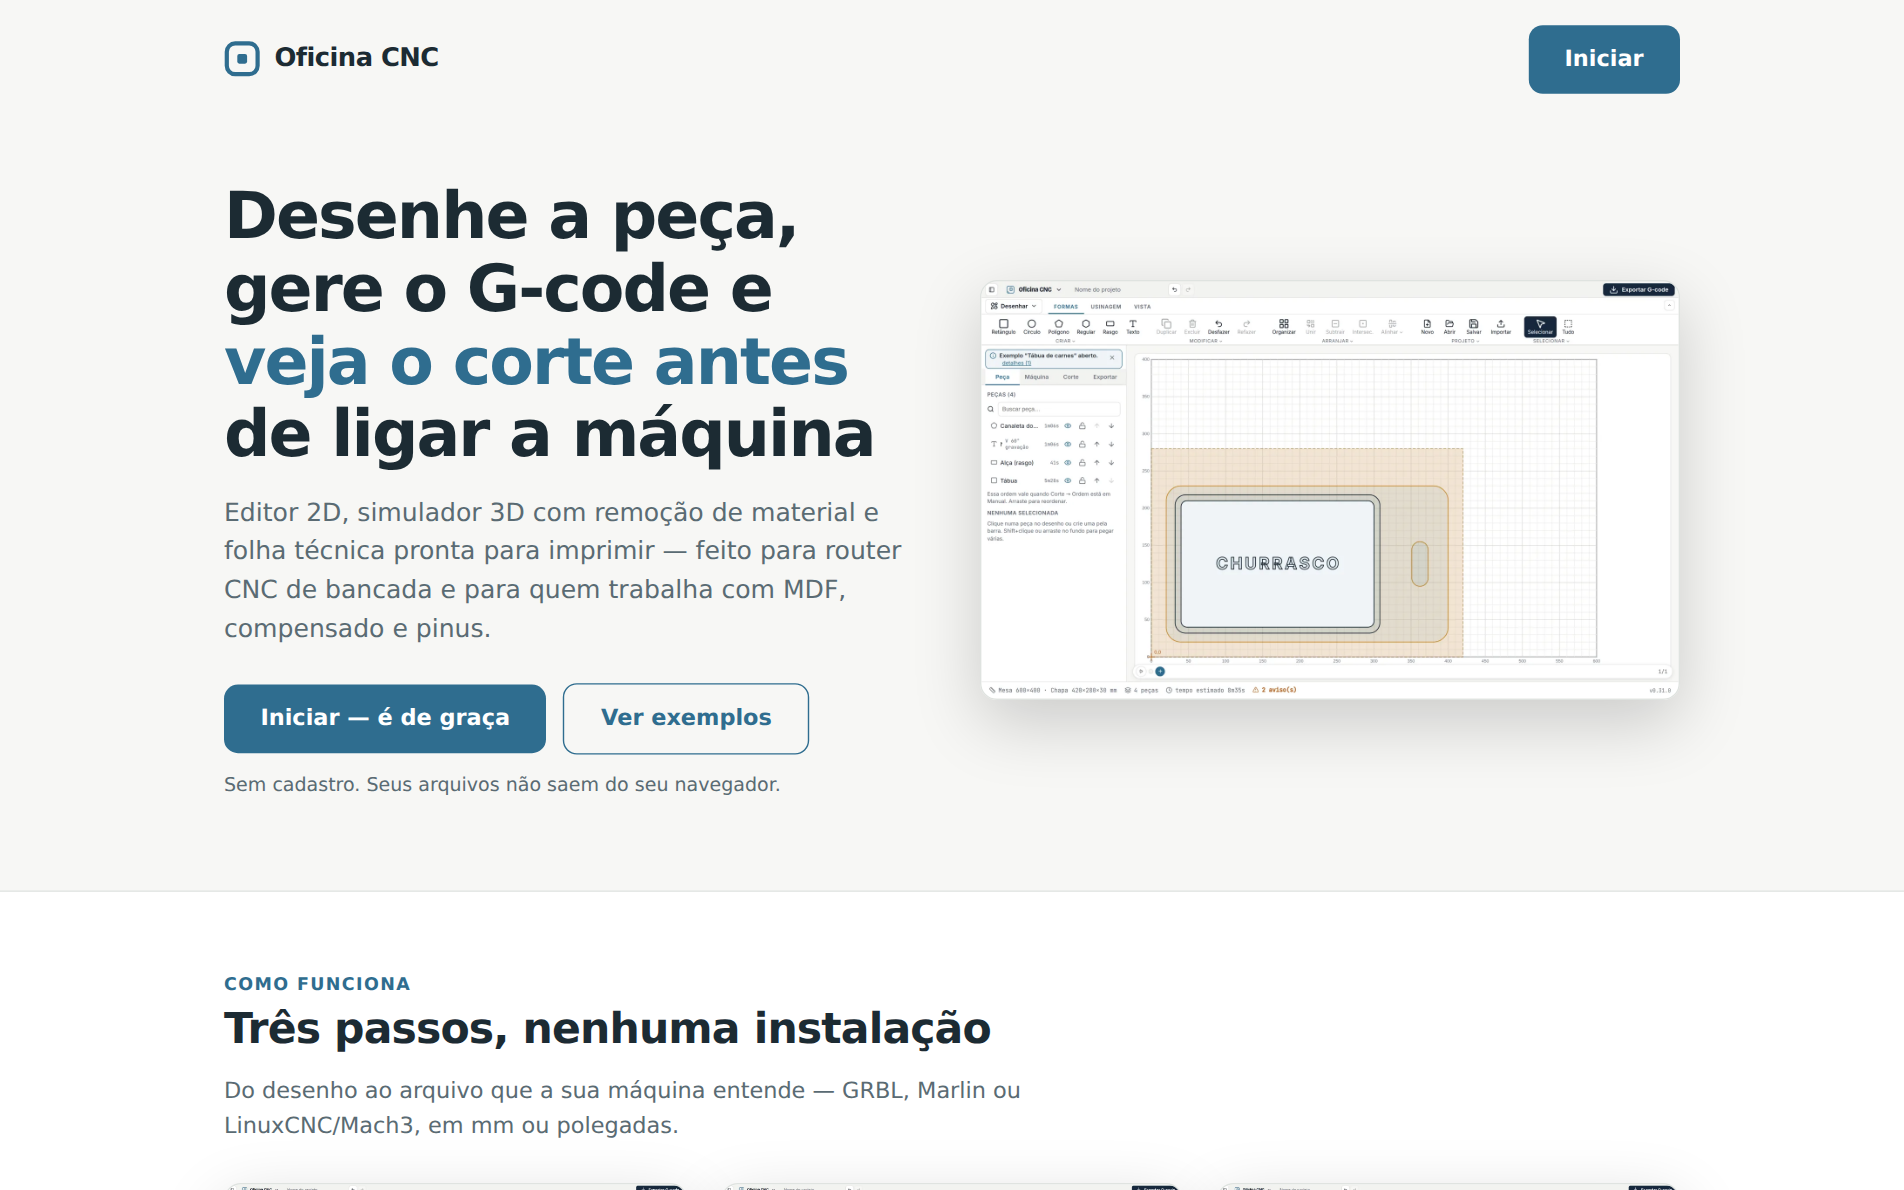
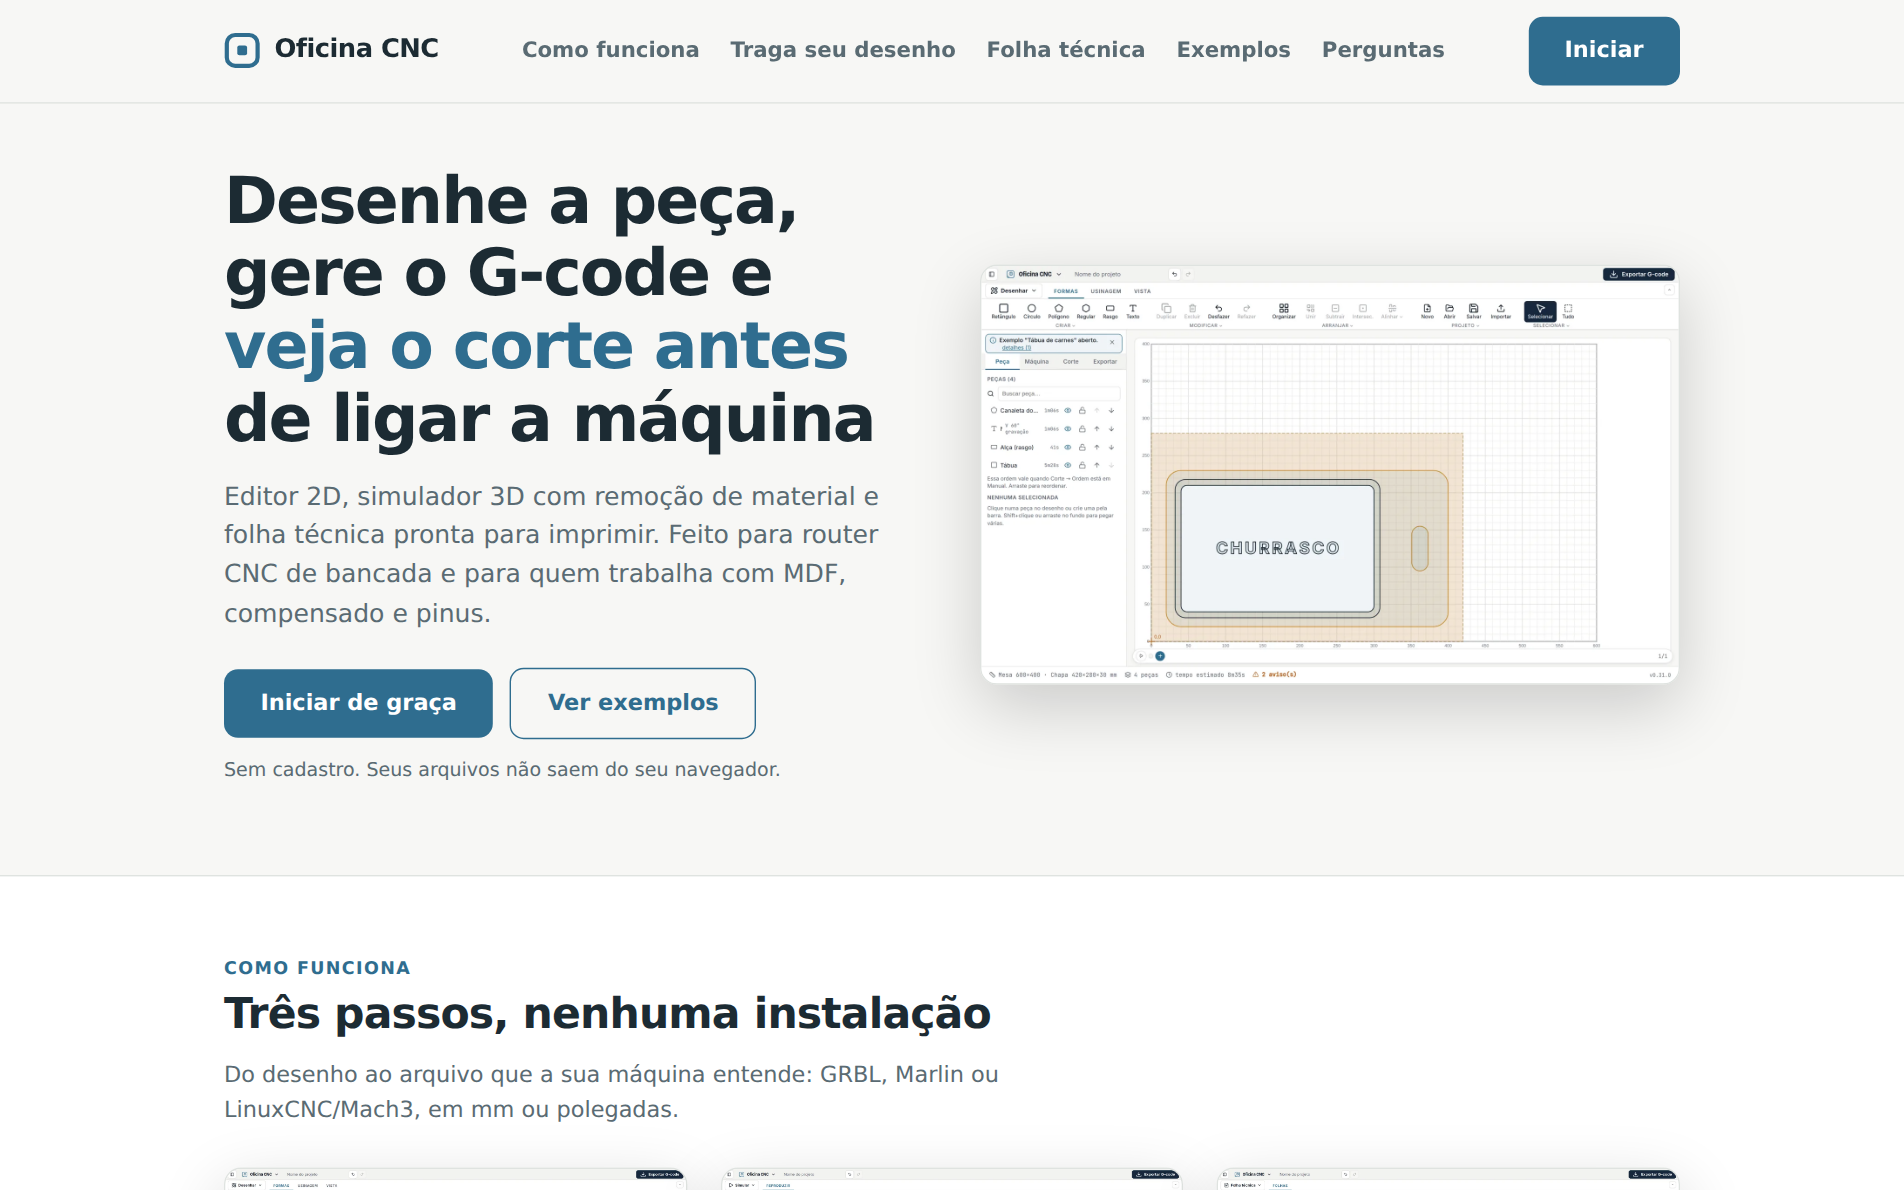
Landing: navbar fixa com navegação, textos sem travessão, JSON-LD (app + FAQ) e metas completas.

diff --git a/index.html b/index.html
@@ -15,16 +15,53 @@
     <meta name="viewport" content="width=device-width, initial-scale=1.0" />
     <meta name="theme-color" content="#16283d" />
     <meta name="robots" content="index, follow" />
-    <meta name="description" content="Desenhe a peça, gere o G-code e veja o corte simulado antes de ligar a máquina. Editor para router CNC de bancada — de graça, no navegador." />
+    <meta name="application-name" content="Oficina CNC" />
+    <meta name="author" content="Kleber Andrade" />
+    <meta name="description" content="Desenhe a peça, gere o G-code e veja o corte simulado antes de ligar a máquina. Editor gratuito para router CNC de bancada, direto no navegador." />
     <meta property="og:type" content="website" />
     <meta property="og:locale" content="pt_BR" />
     <meta property="og:site_name" content="Oficina CNC" />
-    <meta property="og:title" content="Oficina CNC — desenhe, simule, corte" />
+    <meta property="og:title" content="Oficina CNC: desenhe, simule, corte" />
     <meta property="og:description" content="Editor, G-code e simulador 3D para router CNC de bancada. De graça, no navegador." />
     <meta property="og:url" content="https://oficina-cnc.vercel.app/" />
     <meta property="og:image" content="https://oficina-cnc.vercel.app/og-image.png" />
+    <meta property="og:image:width" content="1200" />
+    <meta property="og:image:height" content="630" />
+    <meta property="og:image:alt" content="Oficina CNC: editor 2D, G-code e simulador 3D para router CNC no navegador" />
     <meta name="twitter:card" content="summary_large_image" />
-    <title>Oficina CNC — desenhe, simule e corte na sua router CNC</title>
+    <meta name="twitter:title" content="Oficina CNC: desenhe, simule, corte" />
+    <meta name="twitter:description" content="Editor, G-code e simulador 3D para router CNC de bancada. De graça, no navegador." />
+    <meta name="twitter:image" content="https://oficina-cnc.vercel.app/og-image.png" />
+    <link rel="apple-touch-icon" href="/icons/apple-touch-icon.png" />
+    <title>Oficina CNC: desenhe, simule e corte na sua router CNC</title>
+    <script type="application/ld+json">
+      {
+        "@context": "https://schema.org",
+        "@type": "SoftwareApplication",
+        "name": "Oficina CNC",
+        "url": "https://oficina-cnc.vercel.app/",
+        "description": "Desenhe a peça, gere o G-code e veja o corte simulado antes de ligar a máquina. Editor gratuito para router CNC de bancada, direto no navegador.",
+        "applicationCategory": "DesignApplication",
+        "operatingSystem": "Web",
+        "inLanguage": "pt-BR",
+        "author": { "@type": "Person", "name": "Kleber Andrade" },
+        "offers": { "@type": "Offer", "price": "0", "priceCurrency": "BRL" },
+        "image": "https://oficina-cnc.vercel.app/og-image.png"
+      }
+    </script>
+    <script type="application/ld+json">
+      {
+        "@context": "https://schema.org",
+        "@type": "FAQPage",
+        "mainEntity": [
+          { "@type": "Question", "name": "Quanto custa o Oficina CNC?", "acceptedAnswer": { "@type": "Answer", "text": "Nada. O projeto nasceu para resolver um problema real de oficina e continua gratuito, sem cadastro." } },
+          { "@type": "Question", "name": "Meus desenhos saem do meu computador?", "acceptedAnswer": { "@type": "Answer", "text": "Não. Tudo roda e fica no seu navegador: projeto salvo localmente, exportação direto para o seu disco. Nada sobe para servidor." } },
+          { "@type": "Question", "name": "Funciona sem internet?", "acceptedAnswer": { "@type": "Answer", "text": "Sim: é um PWA. Instale pelo navegador e ele abre e trabalha offline." } },
+          { "@type": "Question", "name": "Que máquinas e controladores são compatíveis?", "acceptedAnswer": { "@type": "Answer", "text": "Qualquer router que aceite G-code: GRBL, Marlin ou LinuxCNC/Mach3, com pós-processador próprio para cada um, em mm ou polegadas (G21/G20)." } },
+          { "@type": "Question", "name": "Funciona no celular e no tablet?", "acceptedAnswer": { "@type": "Answer", "text": "Sim: dá para desenhar, simular e conferir a folha técnica no toque. Para trabalho longo, a tela grande continua sendo a melhor amiga da oficina." } }
+        ]
+      }
+    </script>
     <style>
       :root {
         --bg: #f7f7f5; --surface: #ffffff; --ink: #1c2b33; --muted: #5a6b73;
@@ -35,9 +72,16 @@
       }
       * { margin: 0; padding: 0; box-sizing: border-box; }
       html { scroll-behavior: smooth; }
+      /* âncoras não somem embaixo da navbar fixa */
+      section[id] { scroll-margin-top: 76px; }
       body { font-family: system-ui, -apple-system, "Segoe UI", sans-serif; background: var(--bg); color: var(--ink); line-height: 1.55; }
       .wrap { max-width: 1080px; margin: 0 auto; padding: 0 20px; }
-      header.top { display: flex; align-items: center; justify-content: space-between; padding: 18px 0; }
+      header.top { position: sticky; top: 0; z-index: 50; background: color-mix(in srgb, var(--bg) 86%, transparent); backdrop-filter: blur(10px); border-bottom: 1px solid var(--line); }
+      .top-inner { display: flex; align-items: center; justify-content: space-between; gap: 16px; padding: 12px 20px; max-width: 1080px; margin: 0 auto; }
+      nav.top-nav { display: flex; gap: 22px; }
+      nav.top-nav a { color: var(--muted); text-decoration: none; font-size: 0.95rem; font-weight: 600; }
+      nav.top-nav a:hover { color: var(--accent); }
+      @media (max-width: 860px) { nav.top-nav { display: none; } }
       .brand { display: flex; align-items: center; gap: 10px; font-weight: 800; font-size: 1.15rem; letter-spacing: -0.02em; }
       .brand svg { flex: none; }
       a.btn { display: inline-block; background: var(--accent); color: var(--accent-ink); font-weight: 700; padding: 12px 26px; border-radius: 10px; text-decoration: none; }
@@ -93,21 +137,30 @@
     </style>
   </head>
   <body>
-    <div class="wrap">
-      <header class="top">
+    <header class="top">
+      <div class="top-inner">
         <div class="brand">
           <svg width="26" height="26" viewBox="0 0 26 26" aria-hidden="true"><rect x="2" y="2" width="22" height="22" rx="6" fill="none" stroke="var(--accent)" stroke-width="3"/><rect x="9.5" y="9.5" width="7" height="7" rx="1.5" fill="var(--accent)"/></svg>
           Oficina CNC
         </div>
+        <nav class="top-nav" aria-label="Seções da página" data-testid="landing-nav">
+          <a href="#como-funciona">Como funciona</a>
+          <a href="#traga-seu-desenho">Traga seu desenho</a>
+          <a href="#folha-tecnica">Folha técnica</a>
+          <a href="#exemplos">Exemplos</a>
+          <a href="#perguntas">Perguntas</a>
+        </nav>
         <a class="btn" href="/app/" data-testid="landing-start-top">Iniciar</a>
-      </header>
+      </div>
+    </header>
+    <div class="wrap">
 
       <section class="hero">
         <div>
           <h1>Desenhe a peça, gere o G-code e <em>veja o corte antes</em> de ligar a máquina</h1>
-          <p class="lead">Editor 2D, simulador 3D com remoção de material e folha técnica pronta para imprimir — feito para router CNC de bancada e para quem trabalha com MDF, compensado e pinus.</p>
+          <p class="lead">Editor 2D, simulador 3D com remoção de material e folha técnica pronta para imprimir. Feito para router CNC de bancada e para quem trabalha com MDF, compensado e pinus.</p>
           <div class="cta-row">
-            <a class="btn" href="/app/" data-testid="landing-start">Iniciar — é de graça</a>
+            <a class="btn" href="/app/" data-testid="landing-start">Iniciar de graça</a>
             <a class="btn ghost" href="/app/?galeria=1" data-testid="landing-examples">Ver exemplos</a>
             <span class="cta-note">Sem cadastro. Seus arquivos não saem do seu navegador.</span>
           </div>
@@ -116,11 +169,11 @@
       </section>
     </div>
 
-    <section class="alt">
+    <section class="alt" id="como-funciona">
       <div class="wrap">
         <p class="kicker">Como funciona</p>
         <h2>Três passos, nenhuma instalação</h2>
-        <p class="sub">Do desenho ao arquivo que a sua máquina entende — GRBL, Marlin ou LinuxCNC/Mach3, em mm ou polegadas.</p>
+        <p class="sub">Do desenho ao arquivo que a sua máquina entende: GRBL, Marlin ou LinuxCNC/Mach3, em mm ou polegadas.</p>
         <div class="steps">
           <div class="step">
             <div class="shot"><img src="/landing/hero-editor.webp" loading="lazy" width="1600" height="956" alt="Estação Desenhar" /></div>
@@ -141,14 +194,14 @@
       </div>
     </section>
 
-    <section>
+    <section id="traga-seu-desenho">
       <div class="wrap cols">
         <div>
           <p class="kicker">Traga seu desenho</p>
           <h2>DXF e SVG que entram do jeito certo</h2>
           <p class="sub">Arraste o arquivo para a tela e confira na prévia antes de qualquer coisa cair na chapa.</p>
           <ul>
-            <li>Furos do DXF viram furos de verdade — não contornos soltos</li>
+            <li>Furos do DXF viram furos de verdade, não contornos soltos</li>
             <li>Escolha de camadas e unidade do arquivo na importação</li>
             <li>Foto ou logo em PNG/JPG vira contorno vetorizado ou relevo 2,5D</li>
             <li>Suas fontes .ttf/.otf nos textos, com "explodir em contornos"</li>
@@ -158,16 +211,16 @@
       </div>
     </section>
 
-    <section class="alt">
+    <section class="alt" id="folha-tecnica">
       <div class="wrap cols">
         <div class="shot sheetimg"><img src="/landing/folha-a4.webp" loading="lazy" width="900" height="1273" alt="Folha de oficina em A4 com chapa, origem, fresas e tempos" /></div>
         <div>
           <p class="kicker">Papel na oficina</p>
           <h2>Folha técnica que vai para o lado da máquina</h2>
-          <p class="sub">Nenhuma ferramenta gratuita faz isso: a folha de setup com origem, fresas, parâmetros e avisos — e o desenho cotado de cada peça.</p>
+          <p class="sub">Nenhuma ferramenta gratuita faz isso: a folha de setup com origem, fresas, parâmetros e avisos, mais o desenho cotado de cada peça.</p>
           <ul>
             <li>Desenho técnico com medidas, furos agrupados e carimbo</li>
-            <li>Escala 1:1 quando a peça cabe no A4 — recorte e use como gabarito</li>
+            <li>Escala 1:1 quando a peça cabe no A4: recorte e use como gabarito</li>
             <li>Tempo estimado por peça, para saber o que está custando caro</li>
             <li>SVG baixável para editar fora, plotter ou laser</li>
           </ul>
@@ -175,11 +228,11 @@
       </div>
     </section>
 
-    <section>
+    <section id="exemplos">
       <div class="wrap">
         <p class="kicker">Comece por um exemplo</p>
         <h2>Peças reais, prontas para estudar e cortar</h2>
-        <p class="sub">Cada exemplo ensina um recurso — encaixe com folga, rebaixo multi-passe, texto com fresa V, relevo. Clique e ele abre no editor.</p>
+        <p class="sub">Cada exemplo ensina um recurso: encaixe com folga, rebaixo multi-passe, texto com fresa V, relevo. Clique e ele abre no editor.</p>
         <div class="ex-grid">
           <a class="ex-card" href="/app/?exemplo=tabua-carnes"><img src="/landing/thumb-tabua-carnes.svg" loading="lazy" alt="" /><span>Tábua de carnes</span></a>
           <a class="ex-card" href="/app/?exemplo=caixa-dedos"><img src="/landing/thumb-caixa-dedos.svg" loading="lazy" alt="" /><span>Caixa com encaixe de dedo</span></a>
@@ -191,11 +244,11 @@
       </div>
     </section>
 
-    <section class="alt">
+    <section class="alt" id="perguntas">
       <div class="wrap">
         <p class="kicker">Sem promessa inflada</p>
-        <h2>Para quem é — e o que não é</h2>
-        <p class="sub">Feito para router CNC de bancada (3018 à 1325) cortando MDF, compensado, pinus e alumínio leve. Não substitui CAM industrial de 5 eixos — e nem tenta.</p>
+        <h2>Para quem é (e o que não é)</h2>
+        <p class="sub">Feito para router CNC de bancada, da 3018 até a 1325, cortando MDF, compensado, pinus e alumínio leve. Não substitui CAM industrial de 5 eixos, e nem tenta.</p>
         <div class="faq">
           <details>
             <summary>Quanto custa?</summary>
@@ -203,7 +256,7 @@
           </details>
           <details>
             <summary>Meus desenhos saem do meu computador?</summary>
-            <p>Não. Tudo roda e fica no seu navegador — projeto salvo localmente, exportação direto para o seu disco. Nada sobe para servidor.</p>
+            <p>Não. Tudo roda e fica no seu navegador: projeto salvo localmente, exportação direto para o seu disco. Nada sobe para servidor.</p>
           </details>
           <details>
             <summary>Funciona sem internet?</summary>
@@ -215,7 +268,7 @@
           </details>
           <details>
             <summary>Celular e tablet?</summary>
-            <p>Sim — dá para desenhar, simular e conferir a folha técnica no toque. Para trabalho longo, a tela grande continua sendo melhor amiga da oficina.</p>
+            <p>Sim: dá para desenhar, simular e conferir a folha técnica no toque. Para trabalho longo, a tela grande continua sendo a melhor amiga da oficina.</p>
           </details>
         </div>
       </div>
@@ -257,7 +310,7 @@
         </div>
         <div class="foot-line">
           <span>© 2026 Kleber Andrade · Oficina CNC v%VITE_APP_VERSION%</span>
-          <span>G-code GRBL · Marlin · LinuxCNC — mm e polegadas</span>
+          <span>G-code GRBL · Marlin · LinuxCNC · mm e polegadas</span>
         </div>
       </div>
     </footer>

diff --git a/e2e/landing.spec.ts b/e2e/landing.spec.ts
@@ -6,10 +6,16 @@ test.describe("sprint 32: landing page", () => {
     await page.goto("/");
     await expect(page).toHaveTitle(/Oficina CNC/);
     await expect(page.getByRole("heading", { level: 1 })).toContainText("veja o corte antes");
+    // navbar fixa com navegação por seção
+    const nav = page.getByTestId("landing-nav");
+    await expect(nav).toBeVisible();
+    await nav.getByText("Folha técnica").click();
+    await expect(page).toHaveURL(/#folha-tecnica$/);
+    expect(await page.locator("header.top").evaluate((el) => getComputedStyle(el).position)).toBe("sticky");
     // seções essenciais presentes
     await expect(page.getByText("Três passos, nenhuma instalação")).toBeVisible();
     await expect(page.getByText("Folha técnica que vai para o lado da máquina")).toBeVisible();
-    await expect(page.getByText("Para quem é — e o que não é")).toBeVisible();
+    await expect(page.getByText("Para quem é (e o que não é)")).toBeVisible();
     // footer com legal e contato
     await expect(page.locator("footer")).toContainText("Privacidade");
     await expect(page.locator("footer")).toContainText("pdjkleber@gmail.com");

diff --git a/e2e/seo.spec.ts b/e2e/seo.spec.ts
@@ -41,6 +41,12 @@ test.describe("SEO", () => {
     await expect(page.locator('meta[name="description"]')).toHaveAttribute("content", /router CNC de bancada/);
     // a landing não pode carregar o bundle do app
     expect(await page.locator('script[type="module"]').count()).toBe(0);
+    // dados estruturados: aplicação + FAQ
+    const ld = page.locator('script[type="application/ld+json"]');
+    await expect(ld).toHaveCount(2);
+    const types = await ld.allTextContents();
+    expect(types.join(" ")).toContain('"SoftwareApplication"');
+    expect(types.join(" ")).toContain('"FAQPage"');
   });
 
   test("document title follows the active view", async ({ page }) => {
